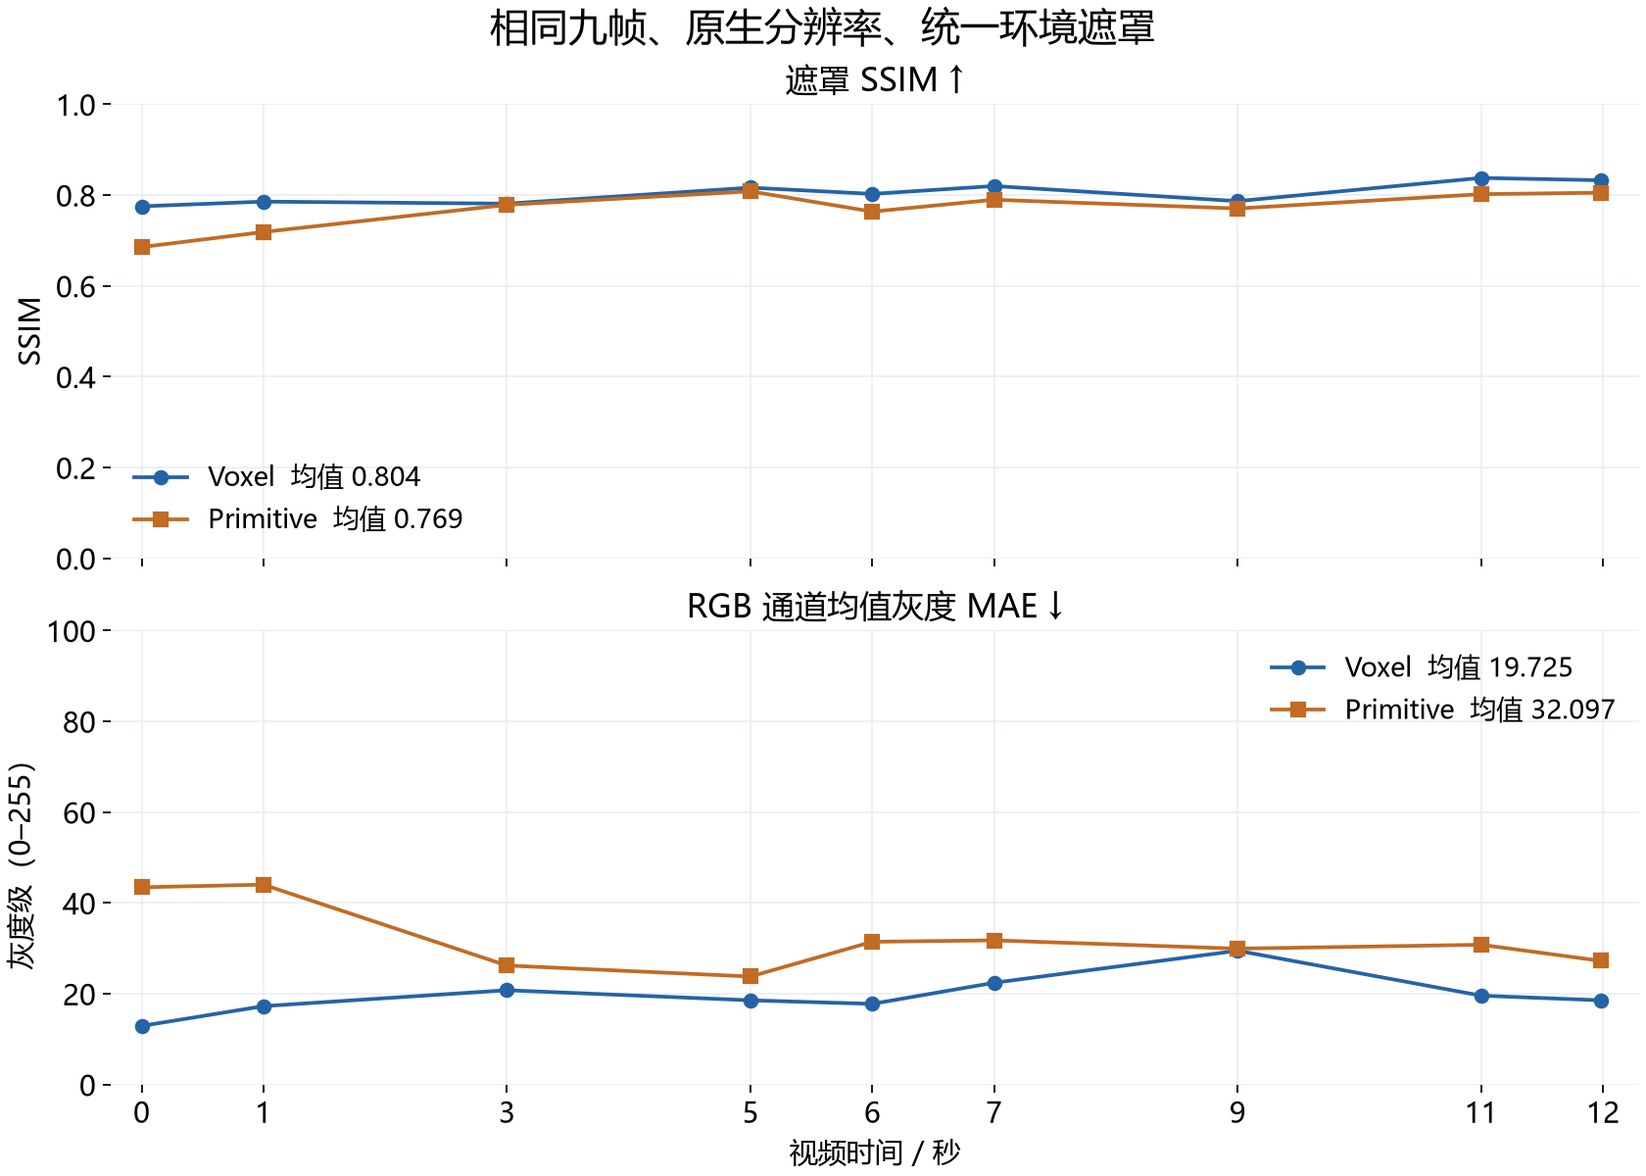
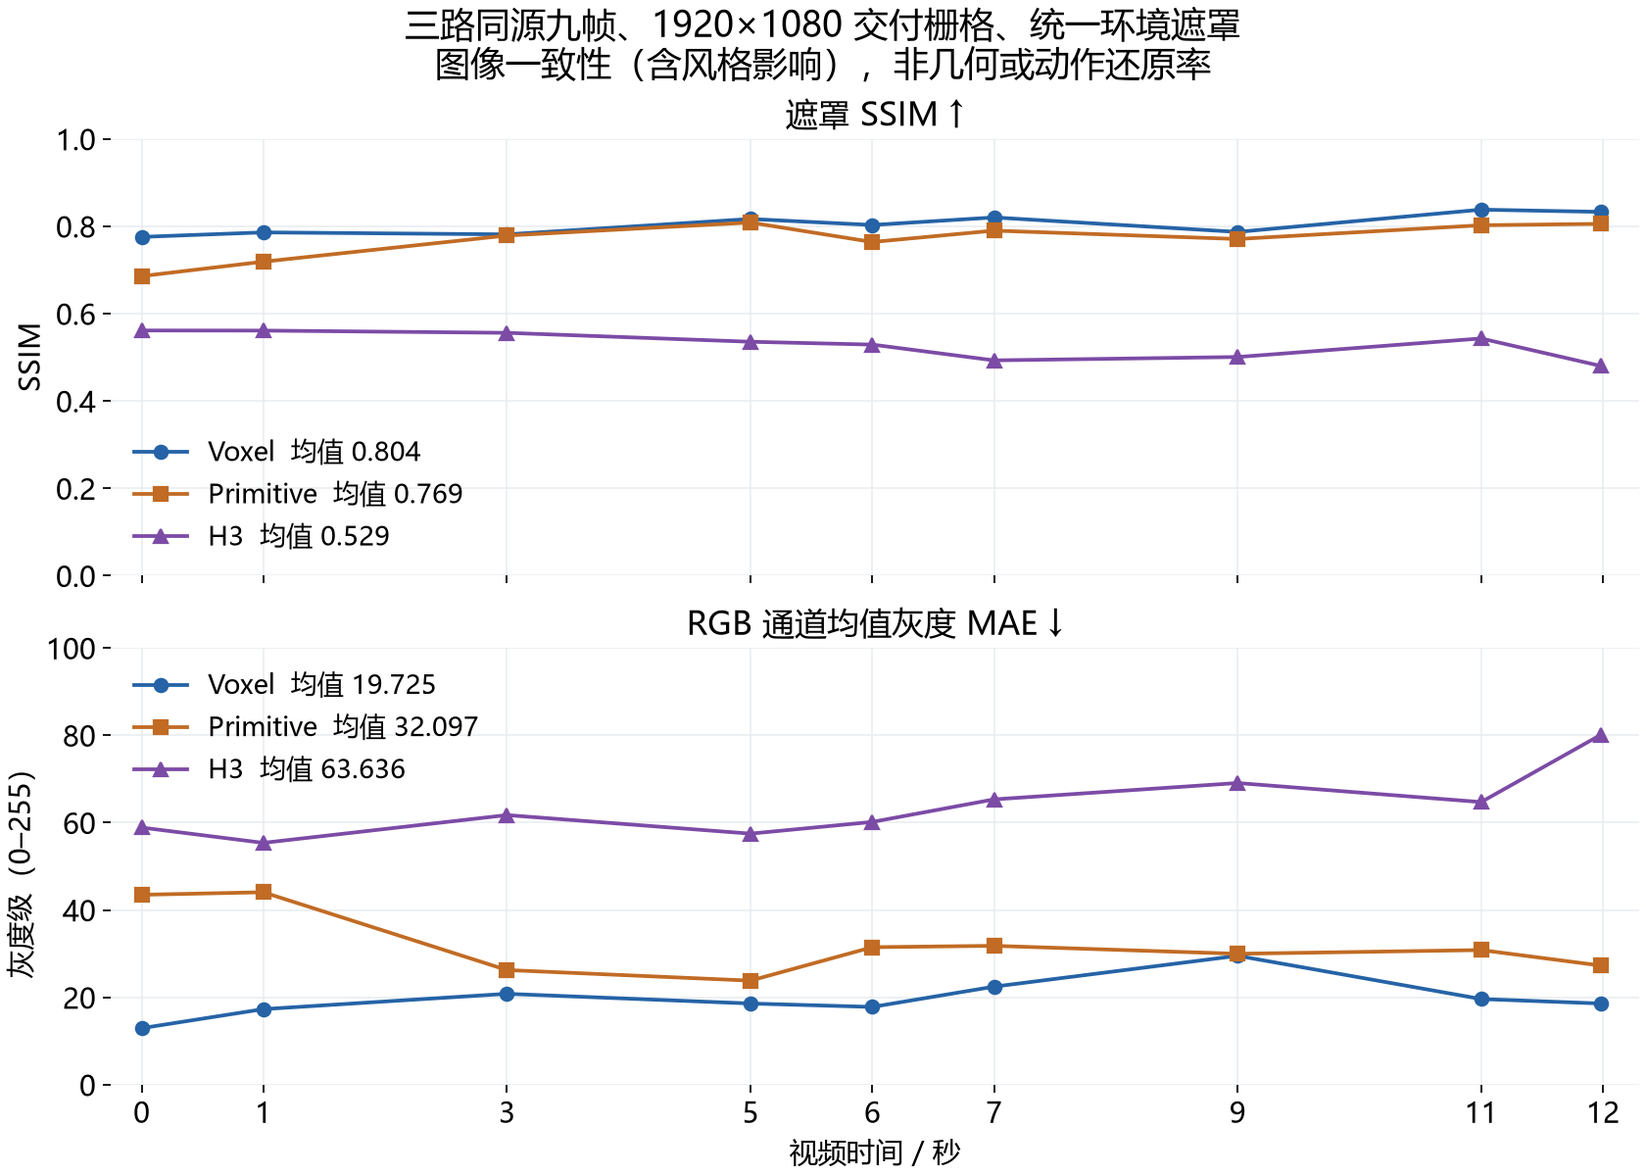
Add H3 to route comparison metrics
Include source-indexed H3 delivery frames in the shared nine-frame image comparison, with validated timing and raster alignment, per-route summaries, and updated plots and tests.

diff --git a/docs/generate_comparison.py b/docs/generate_comparison.py
@@ -33,9 +33,12 @@ ROUTES = {
     "voxel": ROOT / "outputs/stage_ef/heuristic_voxel_proxy",
     "primitive": ROOT / "outputs/stage_ef/heuristic_primitive_from_video",
 }
-COLORS = {"voxel": "#2563a6", "primitive": "#c16b24"}
-NAMES = {"voxel": "Voxel", "primitive": "Primitive"}
+METRIC_ROUTES = (*ROUTES, "h3")
+COLORS = {"voxel": "#2563a6", "primitive": "#c16b24", "h3": "#7c4ba6"}
+NAMES = {"voxel": "Voxel", "primitive": "Primitive", "h3": "H3"}
+MARKERS = {"voxel": "o", "primitive": "s", "h3": "^"}
 H3_ROUTE = ROOT / "outputs/h3_controlled_graybox/full_v3"
+METRIC_FRAME_INDICES = (0, 60, 180, 300, 360, 420, 540, 660, 719)
 VISUAL_FRAME_INDICES = (0, 360, 719)
 
 
@@ -57,6 +60,24 @@ def last_render_seconds(path):
     if match is None:
         raise ValueError(f"Final-frame elapsed time missing: {path}")
     return int(match[1]) * 60 + float(match[2])
+
+
+def score_frame(route, index, rgb, predicted, mask):
+    """Apply identical source-space metrics; never resize or remask a route."""
+    if predicted.shape != rgb.shape:
+        raise ValueError("Delivery raster comparison requires equal image shapes")
+    score = masked_ssim(rgb, predicted, mask)
+    mae = masked_luminance_mae(rgb, predicted, mask)
+    if score is None or mae is None or not np.isfinite([score, mae]).all():
+        raise ValueError("Empty evaluation mask or non-finite image metric")
+    return dict(route=route, frame_index=index, timestamp_seconds=index / 60,
+                evaluated_pixels=int(mask.sum()), masked_ssim=score, rgb_mean_mae_255=mae)
+
+
+def metric_means(rows, route):
+    current = [row for row in rows if row["route"] == route]
+    return dict(mean_masked_ssim=float(np.mean([row["masked_ssim"] for row in current])),
+                mean_rgb_mean_mae_255=float(np.mean([row["rgb_mean_mae_255"] for row in current])))
 
 
 def collect():
@@ -83,35 +104,40 @@ def collect():
     indices = [row["frame_index"] for row in reports["voxel"]["preview_frames"]]
     if indices != [row["frame_index"] for row in reports["primitive"]["preview_frames"]]:
         raise ValueError("Preview frame sets differ")
-    rows, hashes = [], {}
+    if tuple(indices) != METRIC_FRAME_INDICES:
+        raise ValueError("Metrics require the reviewed nine source frame indices")
+    h3_frames = load_h3_frames(indices)
+    rows, hashes = [], {
+        "h3_delivery_report": digest(H3_ROUTE / "report.json"),
+        "h3_delivery_video": digest(H3_ROUTE / "graybox.mp4"),
+    }
     for index in indices:
         source = cache / f"frame_{index:06d}.npz"
         hashes[f"cached_frame_{index:06d}"] = digest(source)
         with np.load(source, allow_pickle=False) as data:
             rgb, codes, labels = data["rgb"], data["codes"], data["labels"]
             mask = (codes > 0) & (codes < 1020) & (labels != CATEGORIES.index("person"))
+            predictions = {}
             for route, folder in ROUTES.items():
                 path = folder / f"frames/frame_{index+1:06d}.png"
                 hashes[f"{route}_preview_{index:06d}"] = digest(path)
                 with Image.open(path) as image:
-                    predicted = np.asarray(image.convert("RGB"))
-                if predicted.shape != rgb.shape:
-                    raise ValueError("Native raster comparison requires equal image shapes")
-                score = masked_ssim(rgb, predicted, mask)
-                mae = masked_luminance_mae(rgb, predicted, mask)
-                if score is None or mae is None:
-                    raise ValueError("Empty evaluation mask")
-                expected = reports[route]["preview_frames"][indices.index(index)]
-                field, value = ("masked_ssim_informational", score) if route == "voxel" else ("masked_luminance_mae", mae)
-                if abs(expected[field] - value) > 1e-7:
-                    raise ValueError("Existing preview metric and source raster disagree")
-                rows.append(dict(route=route, frame_index=index, timestamp_seconds=index / 60,
-                                 evaluated_pixels=int(mask.sum()), masked_ssim=score, rgb_mean_mae_255=mae))
+                    predictions[route] = np.asarray(image.convert("RGB"))
+            predictions["h3"] = np.asarray(h3_frames[index])
+            hashes[f"h3_rgb24_frame_{index:06d}"] = hashlib.sha256(predictions["h3"].tobytes()).hexdigest()
+            for route in METRIC_ROUTES:
+                row = score_frame(route, index, rgb, predictions[route], mask)
+                if route in reports:
+                    expected = reports[route]["preview_frames"][indices.index(index)]
+                    field, metric = (("masked_ssim_informational", "masked_ssim") if route == "voxel"
+                                     else ("masked_luminance_mae", "rgb_mean_mae_255"))
+                    if abs(expected[field] - row[metric]) > 1e-7:
+                        raise ValueError("Existing preview metric and source raster disagree")
+                rows.append(row)
     summary = {}
     for route, folder in ROUTES.items():
         objects = scenes[route]["objects"]
         with_observation = sum(bool(obj["observations"]) for obj in objects)
-        current = [row for row in rows if row["route"] == route]
         summary[route] = dict(
             render_elements=len(objects), elements_with_observations=with_observation,
             observation_records=sum(len(obj["observations"]) for obj in objects),
@@ -120,11 +146,12 @@ def collect():
             categories=sorted({obj["category"] for obj in objects}),
             blend_mib=(folder / "scene.blend").stat().st_size / 1024**2,
             blockout_mib=(folder / "blockout_video.mp4").stat().st_size / 1024**2,
-            mean_masked_ssim=float(np.mean([row["masked_ssim"] for row in current])),
-            mean_rgb_mean_mae_255=float(np.mean([row["rgb_mean_mae_255"] for row in current])),
+            **metric_means(rows, route),
             generation_seconds_approx=187 if route == "voxel" else 38,
             render_seconds_to_last_saved_frame=last_render_seconds(folder / "render.log"),
         )
+    # H3 has no scene objects, camera matrices, or Blender resource measurements.
+    summary["h3"] = metric_means(rows, "h3")
     return rows, summary, hashes, cache
 
 
@@ -173,22 +200,22 @@ def save_resources(output, summary):
 
 def save_metrics(output, rows, summary):
     fig, axes = plt.subplots(2, 1, figsize=(10.5, 7.5), layout="constrained", sharex=True)
-    for route in ROUTES:
+    for route in METRIC_ROUTES:
         current = [row for row in rows if row["route"] == route]
         t = [row["timestamp_seconds"] for row in current]
-        marker = "o" if route == "voxel" else "s"
         for ax, metric in zip(axes, ("masked_ssim", "rgb_mean_mae_255")):
             mean = summary[route]["mean_" + metric]
-            ax.plot(t, [row[metric] for row in current], marker=marker, color=COLORS[route],
+            ax.plot(t, [row[metric] for row in current], marker=MARKERS[route], color=COLORS[route],
                     linewidth=1.7, markersize=6, label=f"{NAMES[route]}  均值 {mean:.3f}")
     axes[0].set(title="遮罩 SSIM ↑", ylabel="SSIM", ylim=(0, 1))
-    axes[1].set(title="RGB 通道均值灰度 MAE ↓", ylabel="灰度级（0–255）", xlabel="视频时间 / 秒", ylim=(0, 100))
+    mae_max = max(100, max(row["rgb_mean_mae_255"] for row in rows) * 1.1)
+    axes[1].set(title="RGB 通道均值灰度 MAE ↓", ylabel="灰度级（0–255）", xlabel="视频时间 / 秒", ylim=(0, mae_max))
     for ax in axes:
-        ax.legend(loc="lower left" if ax is axes[0] else "upper right", frameon=False, fontsize=12)
+        ax.legend(loc="lower left" if ax is axes[0] else "upper left", frameon=False, fontsize=12)
         ax.grid(color="#e8ecf0", linewidth=.7)
         ax.set_xlim(-.25, 12.3)
     axes[1].set_xticks([0, 1, 3, 5, 6, 7, 9, 11, 12])
-    fig.suptitle("相同九帧、原生分辨率、统一环境遮罩", fontsize=18)
+    fig.suptitle("三路同源九帧、1920×1080 交付栅格、统一环境遮罩\n图像一致性（含风格影响），非几何或动作还原率", fontsize=16)
     fig.savefig(output / "route_preview_metrics.png", dpi=160)
     plt.close(fig)
 
@@ -199,6 +226,12 @@ def load_h3_frames(indices):
     if (report.get("status") != "complete_source_indexed_approximation"
             or not report.get("temporal_pass") or not report.get("source_mapping_pass")):
         raise ValueError("H3 requires a verified complete delivery receipt")
+    probe = report["probe"]
+    if (probe["frames"] != 720 or Fraction(probe["fps"]) != 60
+            or Fraction(probe["duration_seconds"]) != 12
+            or len(probe["pts_seconds"]) != 720
+            or any(Fraction(pts) != Fraction(index, 60) for index, pts in enumerate(probe["pts_seconds"]))):
+        raise ValueError("H3 media time lattice is not the reviewed 720-frame clip")
     mapping = report["mapping"]
     if len(mapping) != 720 or any(
             item["source_index"] != index or item["padding"]
@@ -256,7 +289,7 @@ def save_contact_sheet(output, cache):
 def main():
     parser = argparse.ArgumentParser(description=__doc__)
     parser.add_argument("--output", type=Path, default=ROOT / "docs/figures/comparison")
-    parser.add_argument("--visual-only", action="store_true", help="Only rebuild the four-column contact sheet; leave two-route metrics unchanged")
+    parser.add_argument("--visual-only", action="store_true", help="Only rebuild the four-column contact sheet; leave metrics unchanged")
     args = parser.parse_args()
     output = args.output.resolve()
     if not output.is_relative_to(ROOT / "docs/figures"):
@@ -269,13 +302,18 @@ def main():
         return
     rows, summary, hashes, cache = collect()
     output.mkdir(parents=True, exist_ok=True)
-    document = dict(schema="readme.route_comparison/1", source="existing local delivery receipts and nine preview PNGs",
+    document = dict(schema="readme.route_comparison/2", source="existing local delivery receipts, nine preview PNGs per geometry route, and source-indexed H3 delivery frames",
                     semantic_ground_truth_available=False, physical_geometry_validated=False,
-                    mask="0 < codes10 < 1020 AND predicted label != person; identical for both routes",
+                    metric_routes=list(METRIC_ROUTES), metric_frame_indices=list(METRIC_FRAME_INDICES),
+                    mask="0 < codes10 < 1020 AND predicted label != person; source-space mask identical for all three routes, not recomputed on H3",
                     ssim="Existing preview metric: Gaussian 11x11, sigma 1.5; 11x11-eroded mask; not Stage G uniform-window SSIM",
                     mae="Mean absolute difference of RGB-channel-mean grayscale, on mask, scale 0..255",
+                    aggregation="Arithmetic mean of the same nine per-frame scores; not pixel-weighted or a full-video score",
+                    raster="1920x1080 source/geometry previews/H3 delivery frames; no resize during metric calculation. H3 was generated at 768x432 and spatially upscaled during delivery assembly.",
+                    alignment="H3 decoded by final video frame index after validating source mapping, exact PTS and delivery SHA256; no temporal seeking, interpolation, or content registration",
+                    evidence_boundary="Source image agreement, affected by material, brightness, style, resolution and generated layout; not geometry, semantics, action accuracy or temporal continuity. Source person mask does not exclude a displaced generated person.",
                     time_scope="Generation times are historical approximations; render time is elapsed log time to last PNG, including read/verification. Not full cold start or a controlled speed benchmark.",
-                    observation_scope="Voxel associations are inferred representative projections, not verified instances; each linked mesh has one record. Primitive observations are not exported.",
+                    observation_scope="Voxel associations are inferred representative projections, not verified instances; each linked mesh has one record. Primitive observations are not exported. H3 has no 3D objects or observation links; resource plots remain geometry-only.",
                     summary=summary, preview_metrics=rows, input_sha256=hashes,
                     data_policy="Local internal evaluation only; derived data shares source retention policy")
     (output / "metrics.json").write_text(json.dumps(document, ensure_ascii=False, indent=2, allow_nan=False) + "\n", encoding="utf-8")

diff --git a/tests/test_readme_comparison.py b/tests/test_readme_comparison.py
@@ -1,9 +1,13 @@
 import importlib.util
 from fractions import Fraction
 from pathlib import Path
+import tempfile
 from types import SimpleNamespace
 import unittest
 from unittest.mock import patch
+
+import numpy as np
+from PIL import Image
 
 
 spec = importlib.util.spec_from_file_location(
@@ -18,7 +22,10 @@ class ReadmeComparisonTests(unittest.TestCase):
             "status": "complete_source_indexed_approximation",
             "temporal_pass": True, "source_mapping_pass": True,
             "source": "source.mp4", "source_sha256": "source-hash",
-            "output_sha256": "video-hash", "probe": {"width": 2, "height": 1},
+            "output_sha256": "video-hash",
+            "probe": {"width": 2, "height": 1, "frames": 720, "fps": "60/1",
+                      "duration_seconds": "12",
+                      "pts_seconds": [str(Fraction(i, 60)) for i in range(720)]},
             "mapping": [{"source_index": i, "padding": False,
                          "source_pts_seconds": str(Fraction(i, 60))} for i in range(720)],
         }
@@ -58,6 +65,20 @@ class ReadmeComparisonTests(unittest.TestCase):
             comparison.load_h3_frames((0, 360, 719))
         self.decoder.assert_not_called()
 
+    def test_rejects_wrong_frame_count_fps_duration_or_pts(self):
+        probe = self.report["probe"]
+        for field, wrong_value in (("frames", 719), ("fps", "24"),
+                                   ("duration_seconds", "30"), ("pts_seconds", ["0"])):
+            original = probe[field]
+            probe[field] = wrong_value
+            with self.subTest(field=field), self.assertRaisesRegex(ValueError, "media time lattice"):
+                comparison.load_h3_frames((0, 360, 719))
+            probe[field] = original
+        probe["pts_seconds"][360] = "6.001"
+        with self.assertRaisesRegex(ValueError, "media time lattice"):
+            comparison.load_h3_frames((0, 360, 719))
+        self.decoder.assert_not_called()
+
     def test_rejects_different_source_or_modified_video(self):
         self.source_hashes["source.mp4"] = "different-source"
         with self.assertRaisesRegex(ValueError, "RGB source"):
@@ -78,6 +99,121 @@ class ReadmeComparisonTests(unittest.TestCase):
             with self.subTest(indices=indices), self.assertRaisesRegex(ValueError, "unique, increasing"):
                 comparison.load_h3_frames(indices)
         self.decoder.assert_not_called()
+
+
+class ThreeRouteMetricTests(unittest.TestCase):
+    def setUp(self):
+        self.root = Path(self.enterContext(tempfile.TemporaryDirectory()))
+        self.cache = self.root / "cache"
+        self.cache.mkdir()
+        self.routes = {name: self.root / name for name in ("voxel", "primitive")}
+        self.enterContext(patch.object(comparison, "ROOT", self.root))
+        self.enterContext(patch.object(comparison, "ROUTES", self.routes))
+        self.enterContext(patch.object(comparison, "digest", return_value="fixture-hash"))
+        self.enterContext(patch.object(comparison, "last_render_seconds", return_value=1))
+        self.indices = list(comparison.METRIC_FRAME_INDICES)
+        self.rgb = np.full((24, 24, 3), 90, dtype=np.uint8)
+        self.codes = np.ones((24, 24), dtype=np.uint16)
+        self.labels = np.full((24, 24), comparison.CATEGORIES.index("environment"), dtype=np.uint8)
+        self.labels[0, 0] = comparison.CATEGORIES.index("person")
+        self.codes[0, 1] = 0
+        self.codes[0, 2] = 1020
+        self.mask = (self.codes > 0) & (self.codes < 1020) & (self.labels != comparison.CATEGORIES.index("person"))
+        self.h3 = {i: Image.fromarray(np.full_like(self.rgb, 120)) for i in self.indices}
+        self.loader = self.enterContext(patch.object(comparison, "load_h3_frames", return_value=self.h3))
+        self.reports = {}
+        for route, folder in self.routes.items():
+            (folder / "frames").mkdir(parents=True)
+            (folder / "scene.blend").touch()
+            (folder / "blockout_video.mp4").touch()
+            predicted = self.rgb if route == "voxel" else np.full_like(self.rgb, 100)
+            previews = []
+            for index in self.indices:
+                Image.fromarray(predicted).save(folder / f"frames/frame_{index+1:06d}.png")
+                previews.append(dict(frame_index=index,
+                                     masked_ssim_informational=comparison.masked_ssim(self.rgb, predicted, self.mask),
+                                     masked_luminance_mae=comparison.masked_luminance_mae(self.rgb, predicted, self.mask)))
+            self.reports[folder / ("proxy_run.json" if route == "voxel" else "primitive_run.json")] = dict(
+                status="passed", full_video_rendered=True, source_hashes={"source.mp4": "same-source"},
+                preview_frames=previews)
+            self.reports[folder / "scene_schema.json"] = dict(cameras=[], objects=[dict(
+                observations=[], parent_id=None, category="environment")])
+            self.reports[folder / "pipeline_report.json"] = dict(
+                parameters={"engine": "BLENDER_EEVEE"}, media={"video": dict(
+                    frame_count=720, fps="60", pts_verified=True)})
+        for index in self.indices:
+            np.savez(self.cache / f"frame_{index:06d}.npz", rgb=self.rgb, codes=self.codes, labels=self.labels)
+        self.reports[self.root / "outputs/stage_ef/real_refined/refinement_report.json"] = {"frame_cache": str(self.cache)}
+        self.enterContext(patch.object(comparison, "read_json", side_effect=lambda path: self.reports[path]))
+
+    def test_collects_same_nine_frames_and_mask_for_all_three_routes(self):
+        scorer = self.enterContext(patch.object(comparison, "score_frame", wraps=comparison.score_frame))
+        rows, summary, hashes, cache = comparison.collect()
+        self.loader.assert_called_once_with(self.indices)
+        self.assertEqual(cache, self.cache)
+        self.assertEqual(len(rows), 27)
+        self.assertEqual(list(summary), ["voxel", "primitive", "h3"])
+        for index in self.indices:
+            current = [row for row in rows if row["frame_index"] == index]
+            self.assertEqual([row["route"] for row in current], ["voxel", "primitive", "h3"])
+            self.assertEqual({row["evaluated_pixels"] for row in current}, {573})
+            self.assertEqual({row["timestamp_seconds"] for row in current}, {index / 60})
+            calls = [call for call in scorer.call_args_list if call.args[1] == index]
+            self.assertTrue(all(call.args[4] is calls[0].args[4] for call in calls))
+            np.testing.assert_array_equal(calls[0].args[4], self.mask)
+            self.assertIn(f"h3_rgb24_frame_{index:06d}", hashes)
+        self.assertIn("h3_delivery_video", hashes)
+        self.assertIn("h3_delivery_report", hashes)
+        self.assertEqual(summary["voxel"]["mean_masked_ssim"], 1.0)
+        self.assertEqual(summary["voxel"]["mean_rgb_mean_mae_255"], 0.0)
+        self.assertEqual(summary["primitive"]["mean_rgb_mean_mae_255"], 10.0)
+        self.assertEqual(summary["h3"]["mean_rgb_mean_mae_255"], 30.0)
+        self.assertAlmostEqual(summary["h3"]["mean_masked_ssim"],
+                               comparison.masked_ssim(self.rgb, np.asarray(self.h3[0]), self.mask))
+        self.assertEqual(set(summary["h3"]), {"mean_masked_ssim", "mean_rgb_mean_mae_255"})
+
+    def test_rejects_different_h3_raster_without_resizing(self):
+        self.h3[0] = self.h3[0].resize((12, 12))
+        with self.assertRaisesRegex(ValueError, "equal image shapes"):
+            comparison.collect()
+
+    def test_rejects_changed_geometry_metric(self):
+        self.reports[self.routes["voxel"] / "proxy_run.json"]["preview_frames"][0]["masked_ssim_informational"] = 0
+        with self.assertRaisesRegex(ValueError, "Existing preview metric"):
+            comparison.collect()
+
+    def test_rejects_unreviewed_frame_set(self):
+        for route, folder in self.routes.items():
+            report = self.reports[folder / ("proxy_run.json" if route == "voxel" else "primitive_run.json")]
+            report["preview_frames"] = report["preview_frames"][:-1]
+        with self.assertRaisesRegex(ValueError, "reviewed nine"):
+            comparison.collect()
+        self.loader.assert_not_called()
+
+    def test_rejects_empty_ssim_mask(self):
+        with self.assertRaisesRegex(ValueError, "Empty evaluation mask"):
+            comparison.score_frame("h3", 0, self.rgb, self.rgb, np.zeros_like(self.mask))
+
+    def test_means_are_per_frame_not_pixel_weighted(self):
+        rows = [dict(route="h3", masked_ssim=score, rgb_mean_mae_255=mae, evaluated_pixels=pixels)
+                for score, mae, pixels in ((0.2, 10, 1), (0.8, 30, 100))]
+        self.assertEqual(comparison.metric_means(rows, "h3"),
+                         dict(mean_masked_ssim=0.5, mean_rgb_mean_mae_255=20))
+
+    def test_plot_contains_three_routes_and_does_not_clip_mae(self):
+        rows = [dict(route=route, timestamp_seconds=index / 60, masked_ssim=0.8, rgb_mean_mae_255=110)
+                for index in self.indices for route in comparison.METRIC_ROUTES]
+        summary = {route: comparison.metric_means(rows, route) for route in comparison.METRIC_ROUTES}
+        real_close = comparison.plt.close
+        close = self.enterContext(patch.object(comparison.plt, "close"))
+        self.enterContext(patch.object(comparison.plt.Figure, "savefig"))
+        comparison.save_metrics(self.root, rows, summary)
+        figure = close.call_args.args[0]
+        for axis in figure.axes:
+            self.assertEqual(len(axis.lines), 3)
+            self.assertTrue(axis.lines[2].get_label().startswith("H3"))
+        self.assertGreater(figure.axes[1].get_ylim()[1], 110)
+        real_close(figure)
 
 
 if __name__ == "__main__":
